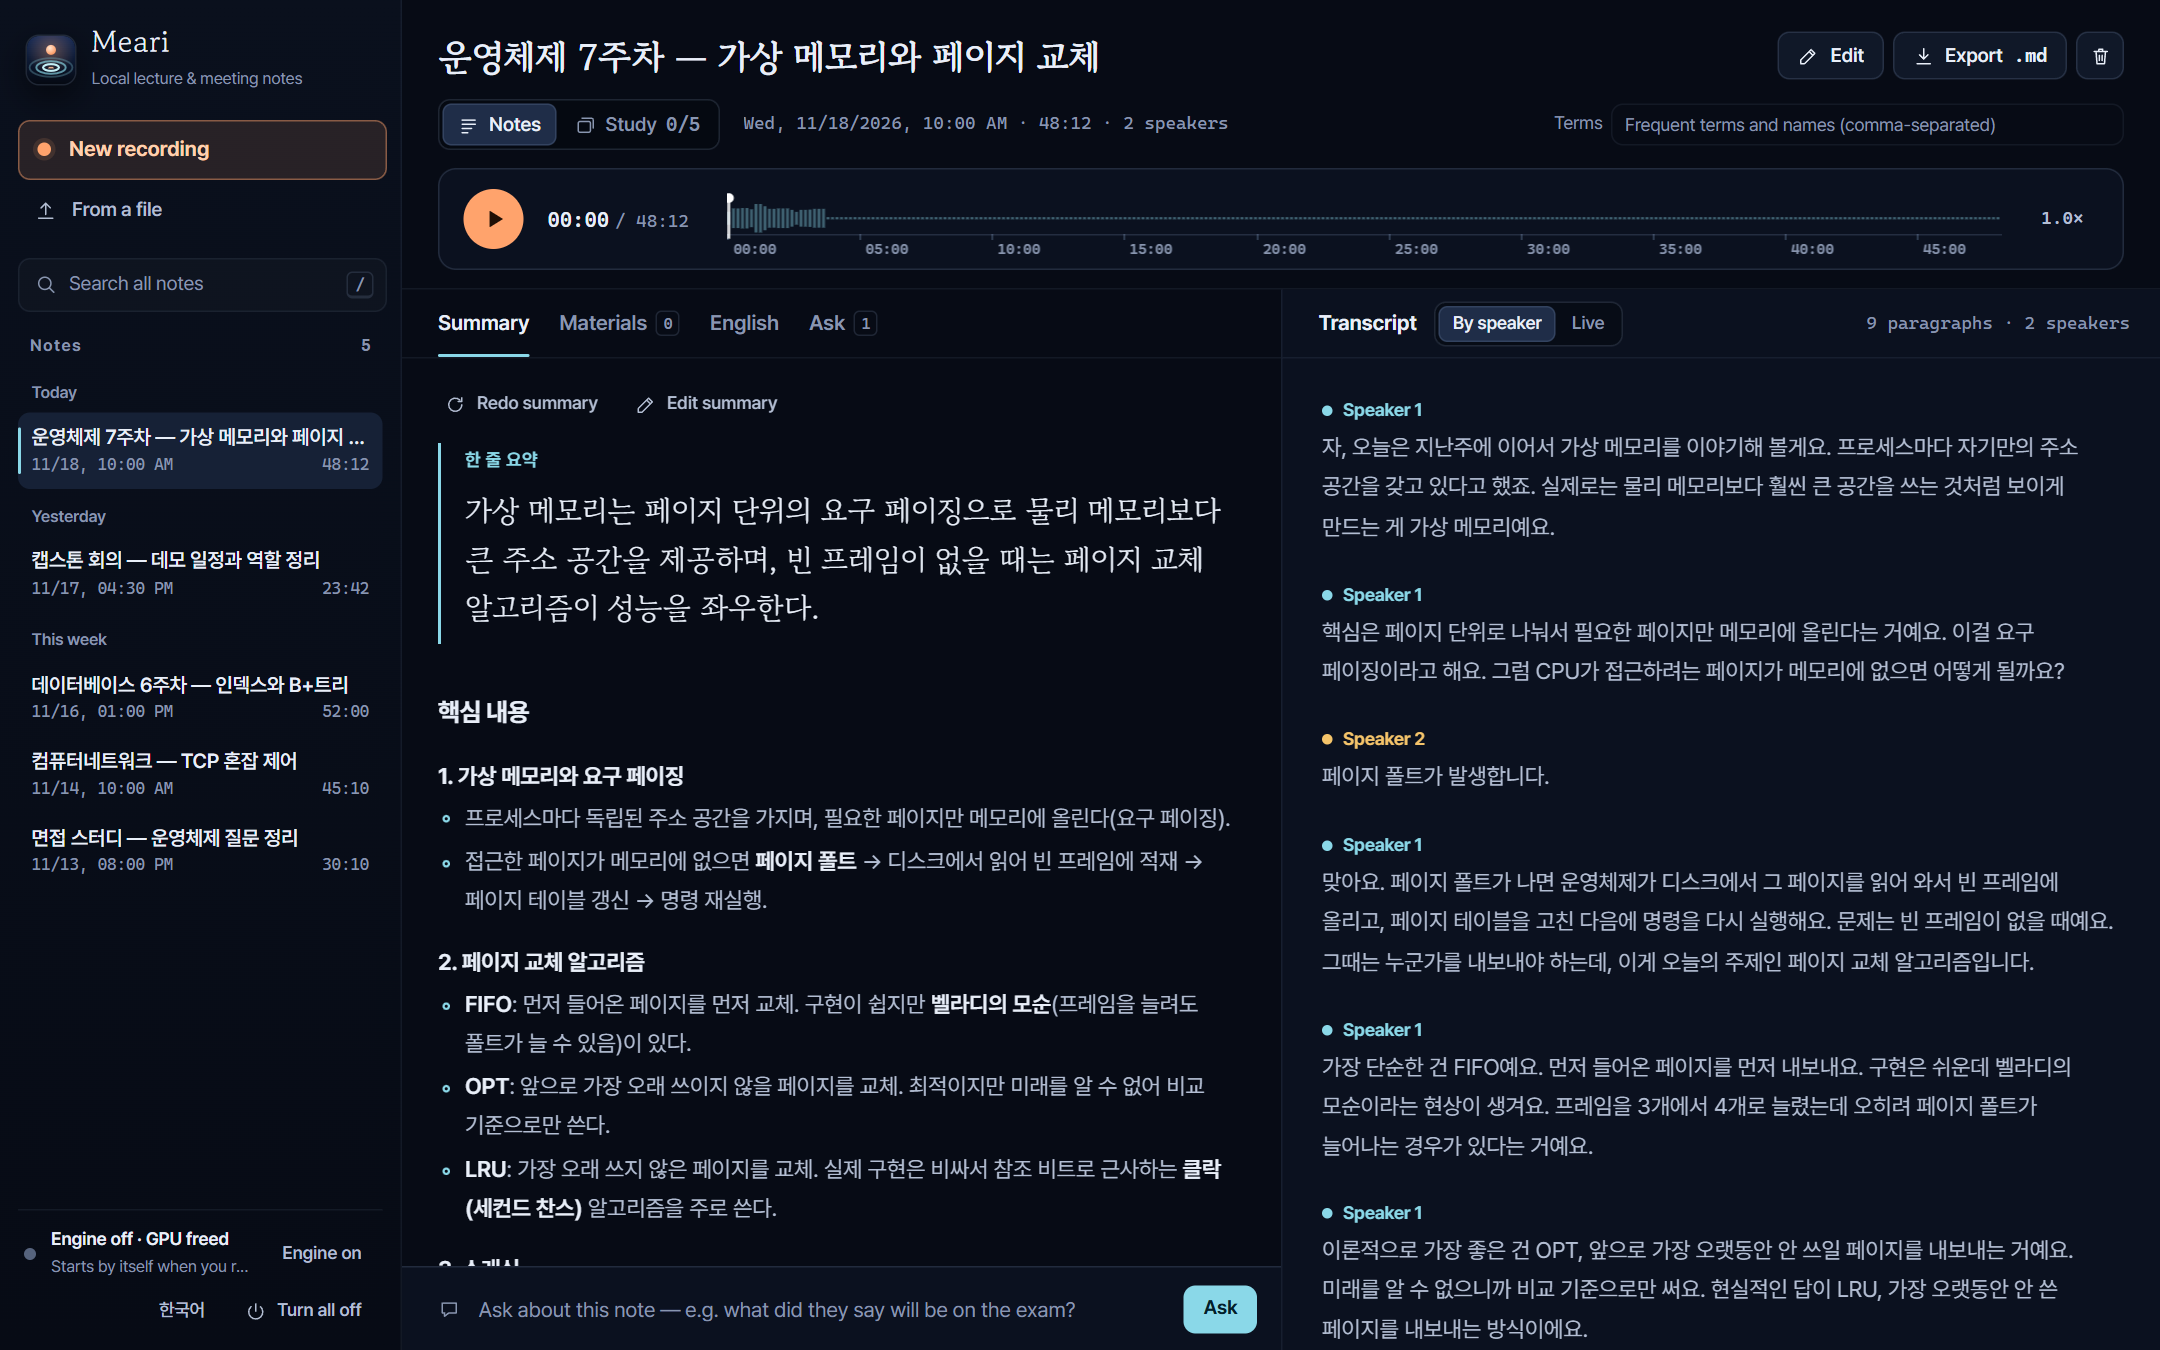
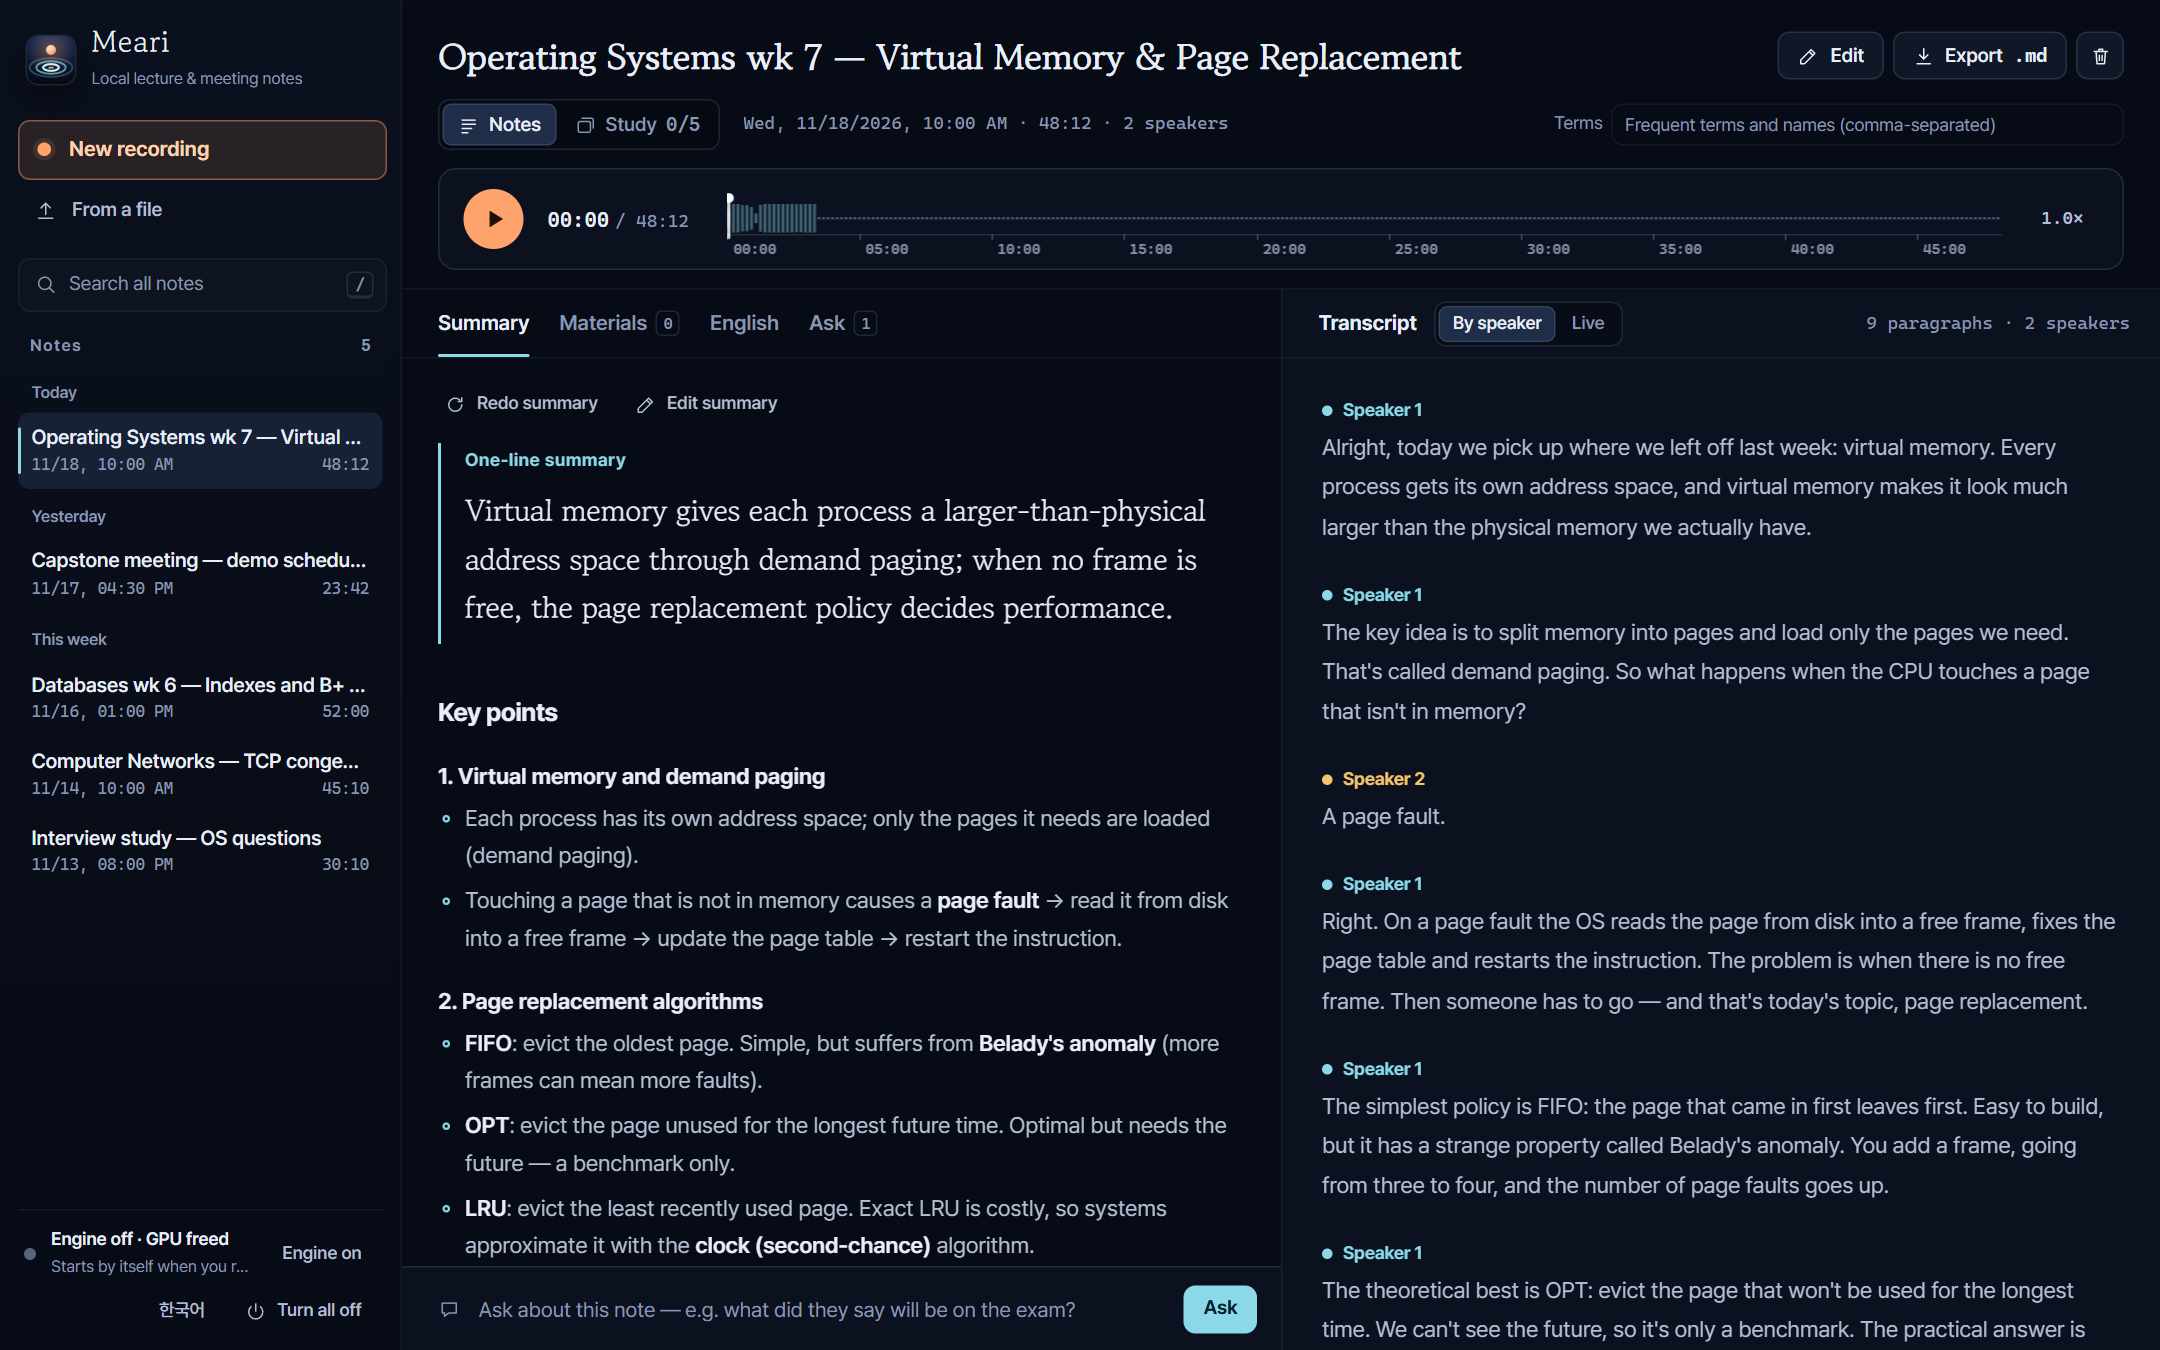
English README: screenshots with English demo notes
The English screenshots now show fictional English notes (titles, transcript,
summary, quiz, Q&A); the translation shot is replaced by Ask the note.
The Korean README and its images are unchanged.

diff --git a/README.en.md b/README.en.md
@@ -17,15 +17,15 @@ Everything runs on the laptop's own GPU with **NVIDIA Nemotron 3.5 Transcribe (N
 
 ![Meari home screen](docs/images/en/home.png)
 
-> The notes in these screenshots are fictional demo data (recorded in Korean); the UI is switched to English.
+> The notes in these screenshots are fictional demo data.
 
 ## Screens
 
 | Note — summary + speaker transcript | Study — quiz + flashcards |
 |---|---|
 | ![Note view](docs/images/en/note.png) | ![Study view](docs/images/en/study.png) |
-| **Recording** | **English translation** |
-| ![Recording view](docs/images/en/rec.png) | ![Translation](docs/images/en/translation.png) |
+| **Recording** | **Ask the note** |
+| ![Recording view](docs/images/en/rec.png) | ![Ask the note](docs/images/en/qa.png) |
 
 <table>
 <tr>
